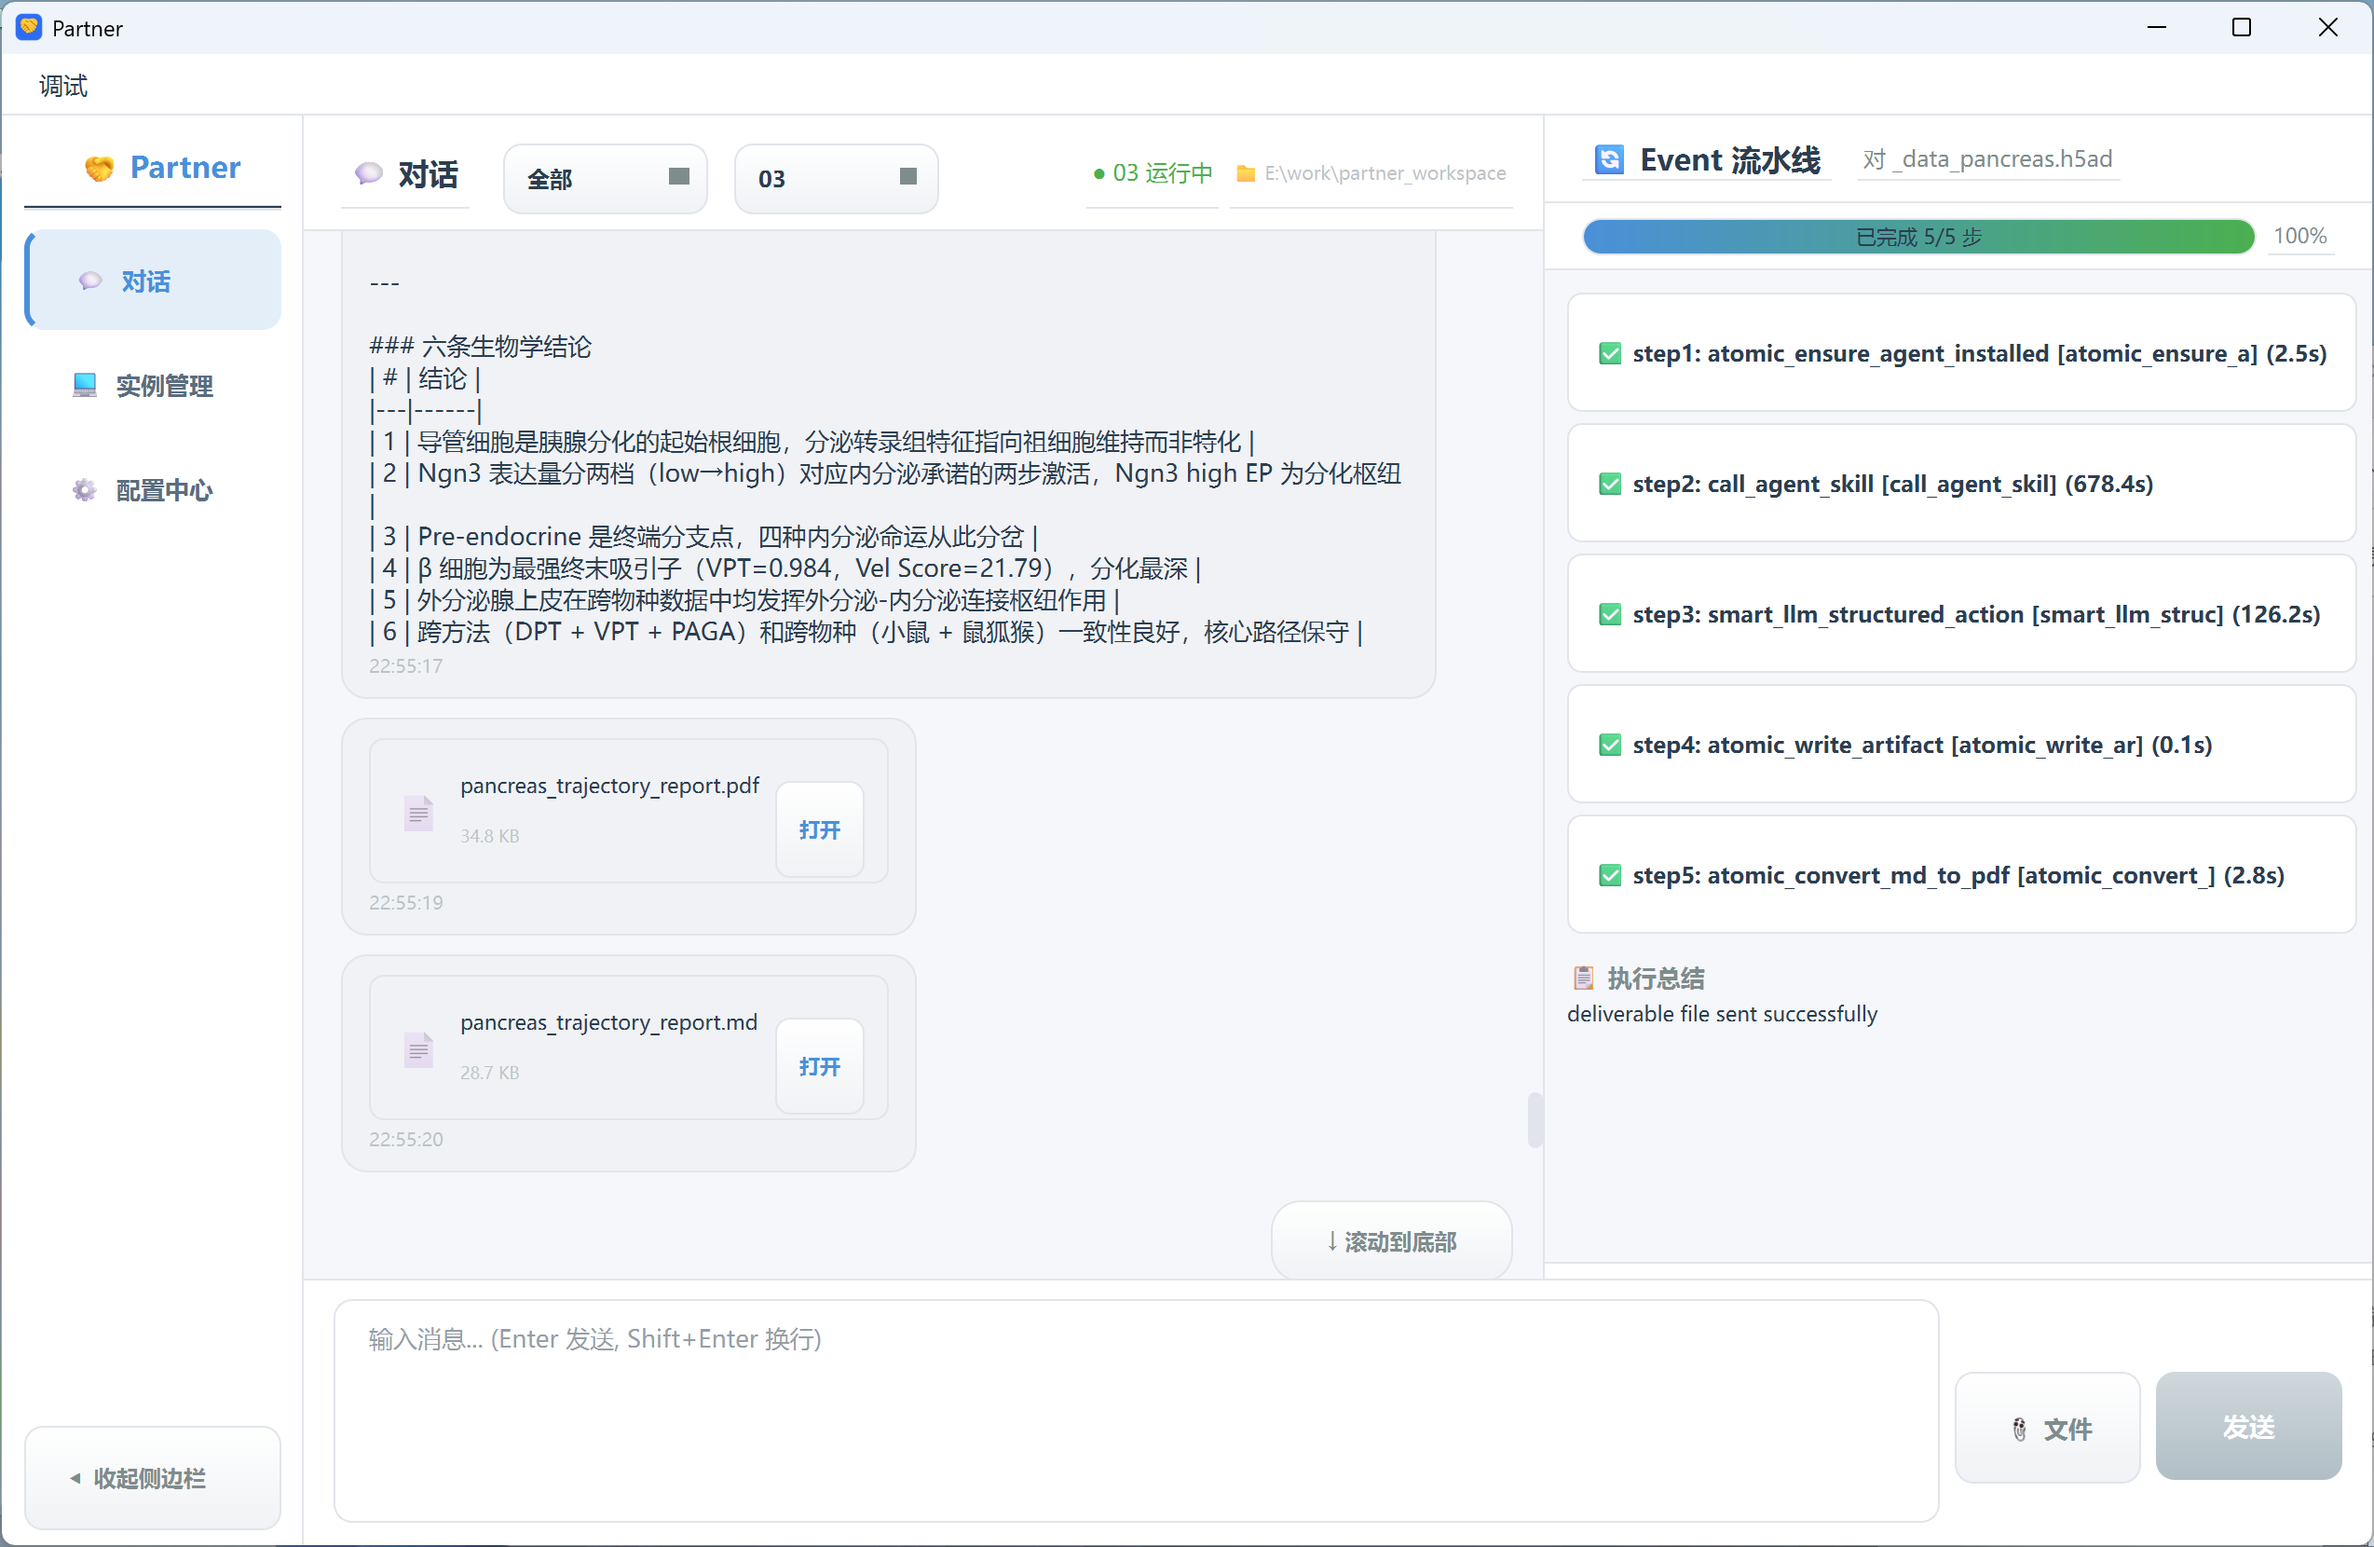
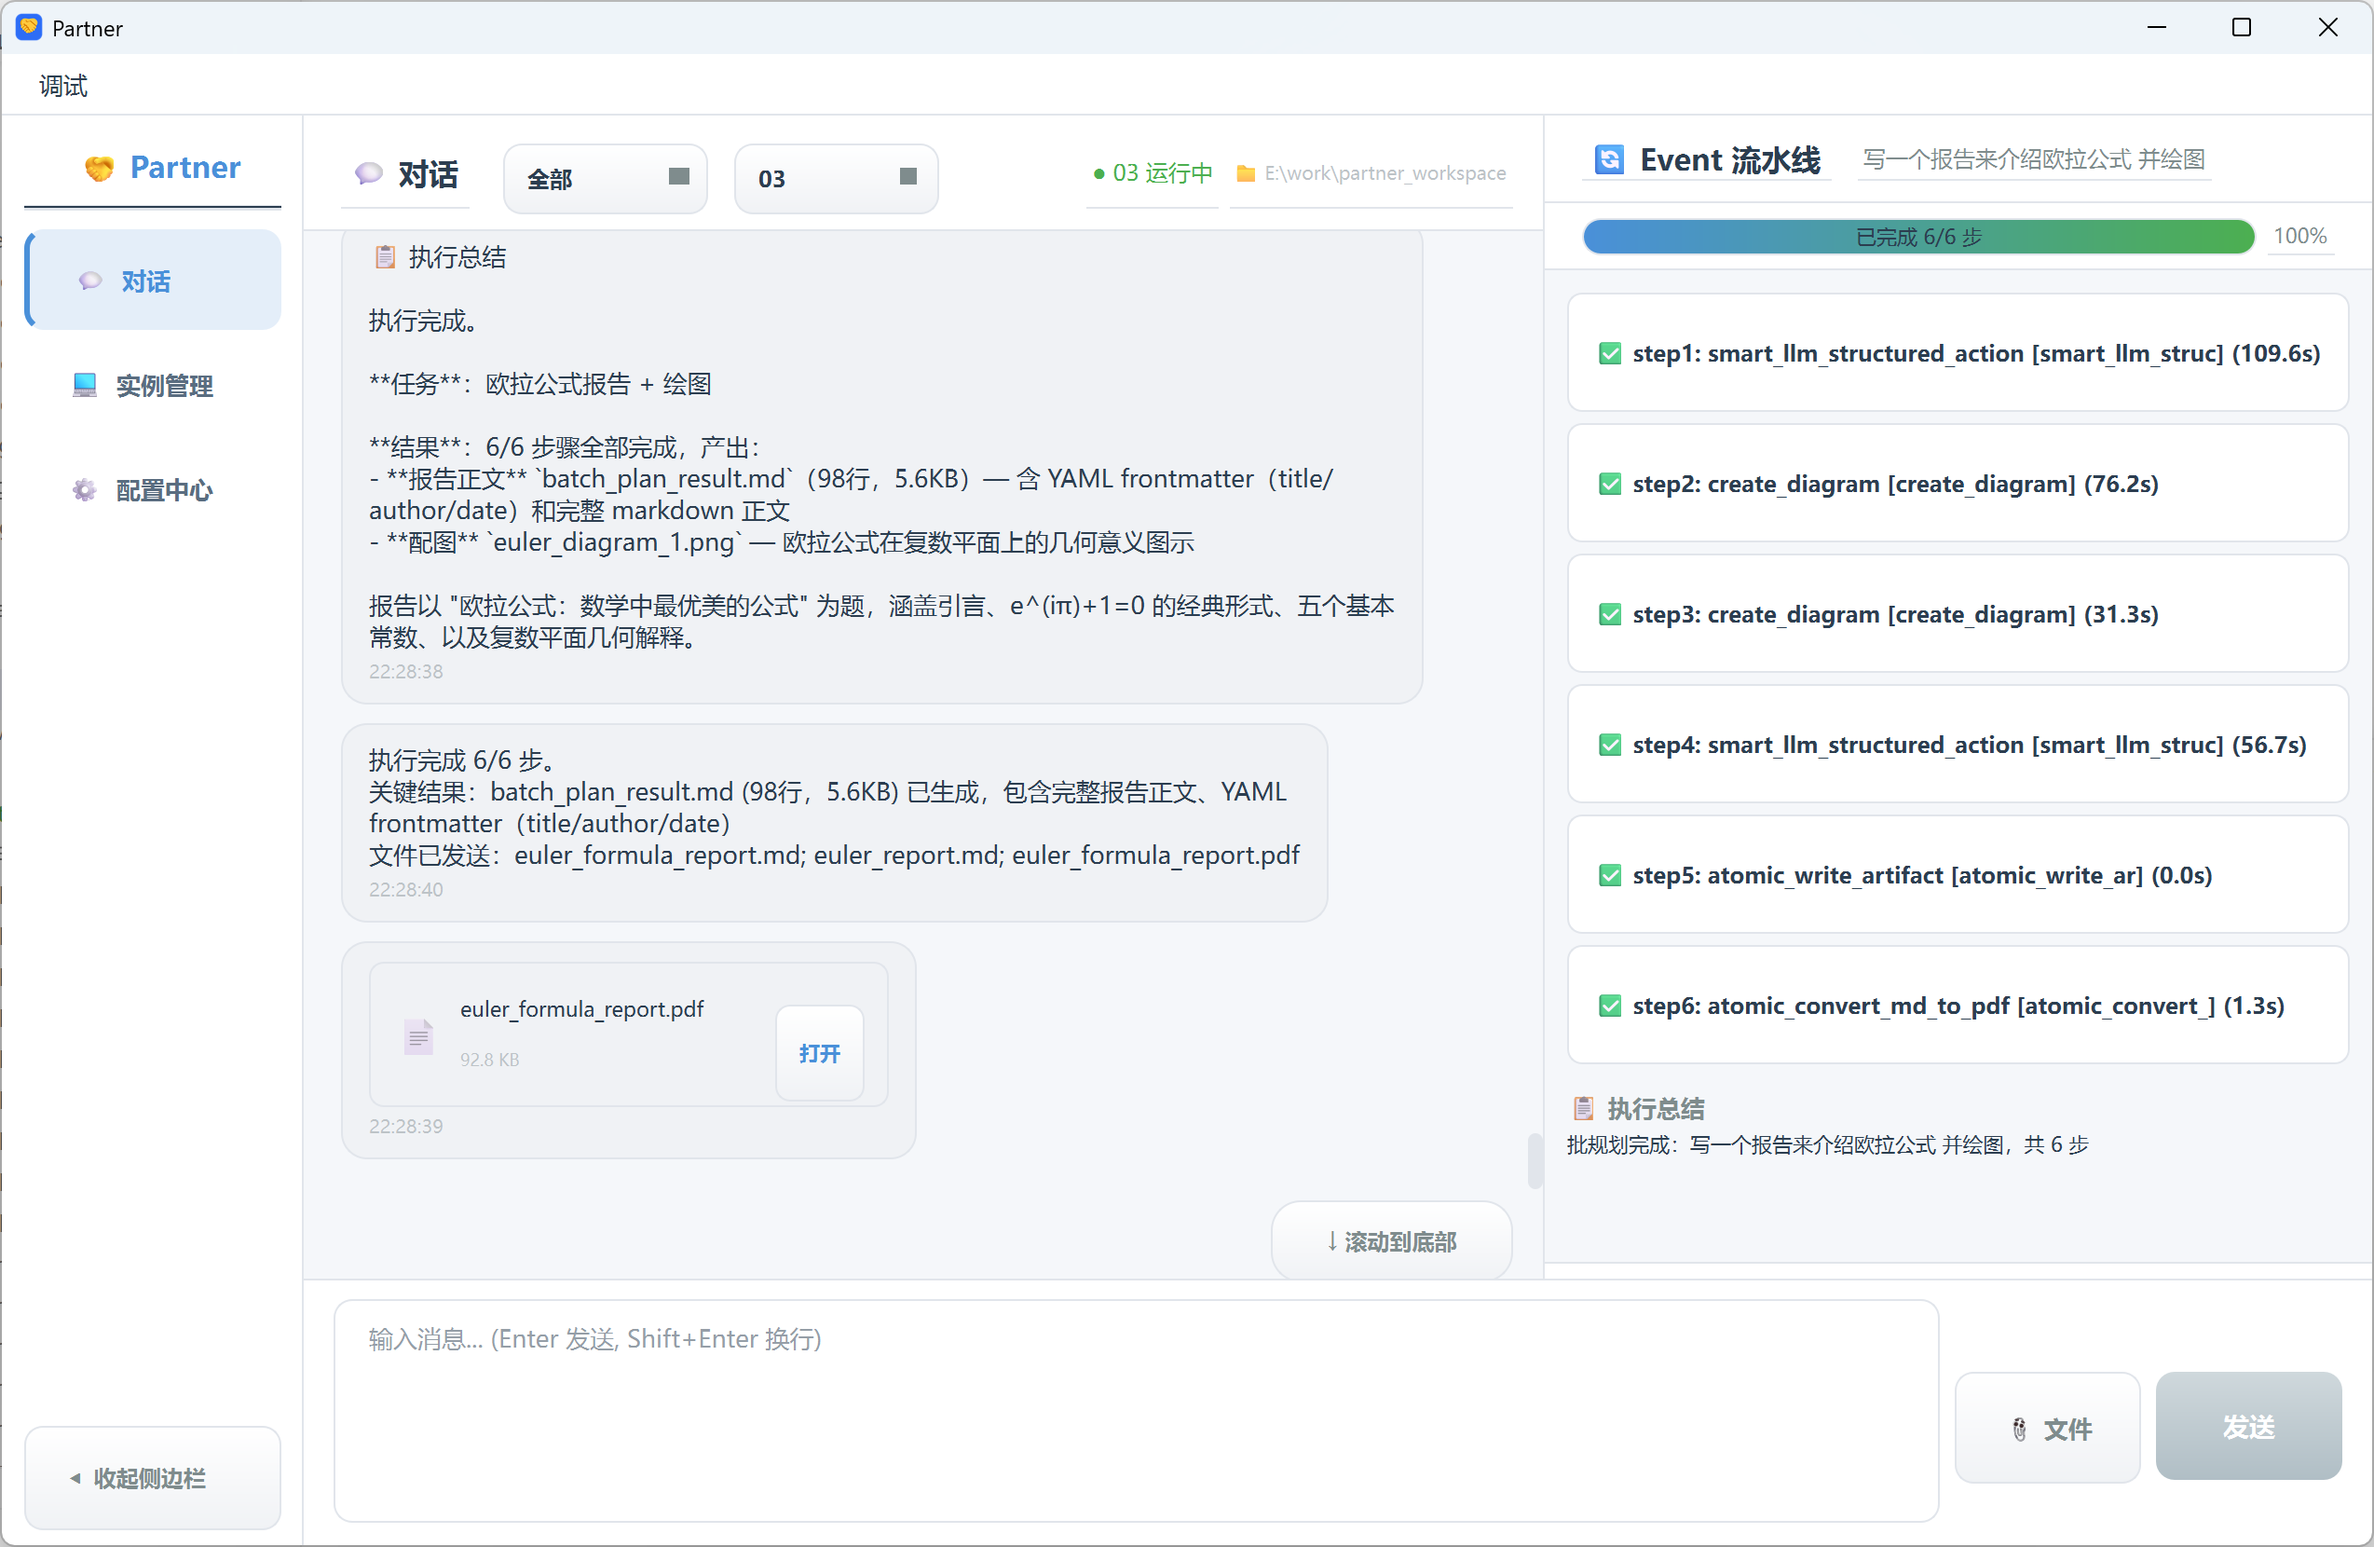
fix: PDF 嵌入图片 + 正文全文 + 证据文件支持 png/jpg
- _extract_evidence_files: 新增 .png .jpg .jpeg .gif 到正则
- _generate_pdf_from_report:
  - 新增 reportlab Image 导入，遍历 evidence_files 嵌入图片
  - 自动缩放图片适应 A4 页面宽度（max 14cm x 18cm）
  - 支持绝对路径和相对路径（相对 markdown 源目录）
  - 输出完整 body 正文（按段落分段），不再仅 bullets

diff --git a/partner/stage_report.py b/partner/stage_report.py
@@ -234,7 +234,7 @@ def _canonical_section(title: str) -> str:
 
 def _extract_evidence_files(text: str) -> list[str]:
     files = []
-    for match in re.findall(r"[\w\u4e00-\u9fff./-]+\.(?:json|csv|md|py|txt|pdf|pptx|xlsx|docx)", text or ""):
+    for match in re.findall(r"[\w\u4e00-\u9fff./-]+\.(?:json|csv|md|py|txt|pdf|pptx|xlsx|docx|png|jpg|jpeg|gif)", text or ""):
         item = match.strip("`，,。；;()（）[]【】")
         if item and item not in files:
             files.append(item)
@@ -580,7 +580,11 @@ def _generate_pdf_from_report(report: StageReport, output_path: str) -> None:
     from reportlab.pdfbase import pdfmetrics
     from reportlab.pdfbase.cidfonts import UnicodeCIDFont
     from reportlab.pdfbase.ttfonts import TTFont
-    from reportlab.platypus import PageBreak, Paragraph, SimpleDocTemplate, Spacer
+    from reportlab.platypus import Image, PageBreak, Paragraph, SimpleDocTemplate, Spacer
+    from reportlab.lib.utils import ImageReader
+
+    # Resolve source markdown directory for relative image paths
+    _md_dir = os.path.dirname(report.source_markdown) if report.source_markdown else ""
 
     def pick_cjk_font() -> str:
         candidates = [
@@ -618,17 +622,71 @@ def _generate_pdf_from_report(report: StageReport, output_path: str) -> None:
         Paragraph(report.title, styles["CNTitle"]),
         Paragraph(f"生成时间：{datetime.now().strftime('%Y-%m-%d %H:%M')}", styles["CNMeta"]),
     ]
-    sections = [
-        (str(section.get("title") or "摘要"), [str(x) for x in (section.get("bullets") or []) if str(x).strip()])
-        for section in report.sections
-    ]
-    for idx, (section_title, lines) in enumerate(sections, start=1):
+
+    # Build sections from report data — include FULL body text, not just bullets
+    for idx, section in enumerate(report.sections, start=1):
+        section_title = str(section.get("title") or "摘要")
+        body = str(section.get("body") or "")
+        bullets = [str(x) for x in (section.get("bullets") or []) if str(x).strip()]
         story.append(Paragraph(f"{idx:02d}. {section_title}", styles["CNHeading"]))
-        for item in lines or ["待补充。"]:
+        # Show body first (the full paragraph text)
+        if body:
+            for para in body.split("\n\n"):
+                para = para.strip()
+                if para and para not in bullets:
+                    story.append(Paragraph(para, styles["CNBody"]))
+                    story.append(Spacer(1, 0.08 * cm))
+        # Then list bullet points
+        for item in bullets or ["待补充。"]:
             story.append(Paragraph("• " + item, styles["CNBody"]))
             story.append(Spacer(1, 0.12 * cm))
         if idx in {3, 6}:
             story.append(PageBreak())
+
+    # Embed images from evidence_files
+    _max_img_w = 14 * cm  # max image width (fit A4 with margins)
+    _max_img_h = 18 * cm
+    for fpath in report.evidence_files:
+        fpath = fpath.strip()
+        if not fpath:
+            continue
+        # Strip markdown image syntax: ![alt](path) -> path
+        md_img = re.match(r"\[.*?\]\((.+?)\)", fpath)
+        if md_img:
+            fpath = md_img.group(1)
+        ext = os.path.splitext(fpath)[1].lower()
+        if ext not in (".png", ".jpg", ".jpeg", ".gif"):
+            continue
+
+        # Resolve image path: try as-is, then relative to markdown dir
+        resolved = None
+        for candidate in [fpath, os.path.join(_md_dir, fpath)]:
+            if os.path.exists(candidate):
+                resolved = candidate
+                break
+        if not resolved or not os.path.isfile(resolved):
+            continue
+        # Skip zero-byte images
+        if os.path.getsize(resolved) < 50:
+            continue
+        try:
+            img = Image(resolved)
+            # Scale to fit page width while preserving aspect ratio
+            iw, ih = img.imageWidth, img.imageHeight
+            if iw > _max_img_w:
+                ratio = _max_img_w / iw
+                img.drawWidth = _max_img_w
+                img.drawHeight = ih * ratio
+            if img.drawHeight > _max_img_h:
+                ratio = _max_img_h / img.drawHeight
+                img.drawHeight = _max_img_h
+                img.drawWidth = img.drawWidth * ratio
+            story.append(Spacer(1, 0.3 * cm))
+            story.append(img)
+            story.append(Spacer(1, 0.3 * cm))
+        except Exception:
+            continue
+
     os.makedirs(os.path.dirname(output_path), exist_ok=True)
     SimpleDocTemplate(output_path, pagesize=A4, rightMargin=1.5 * cm, leftMargin=1.5 * cm, topMargin=1.3 * cm, bottomMargin=1.3 * cm).build(story)
     _assert_nonempty_artifact(output_path, "pdf", min_size=8000)
